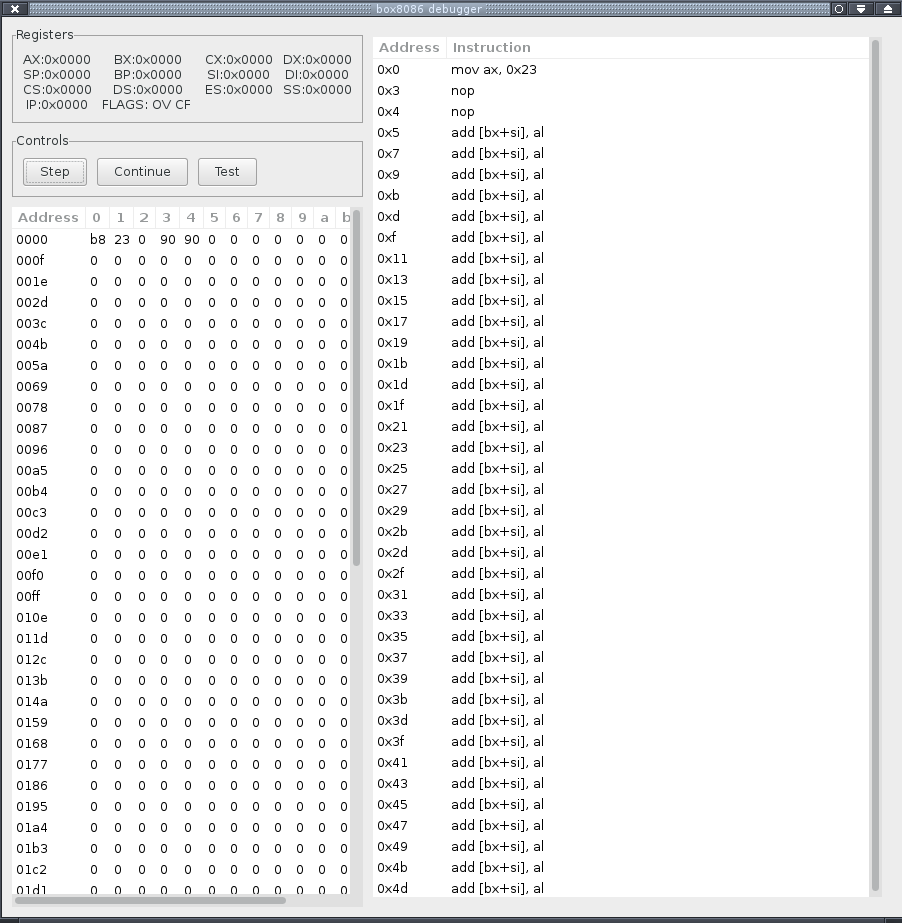
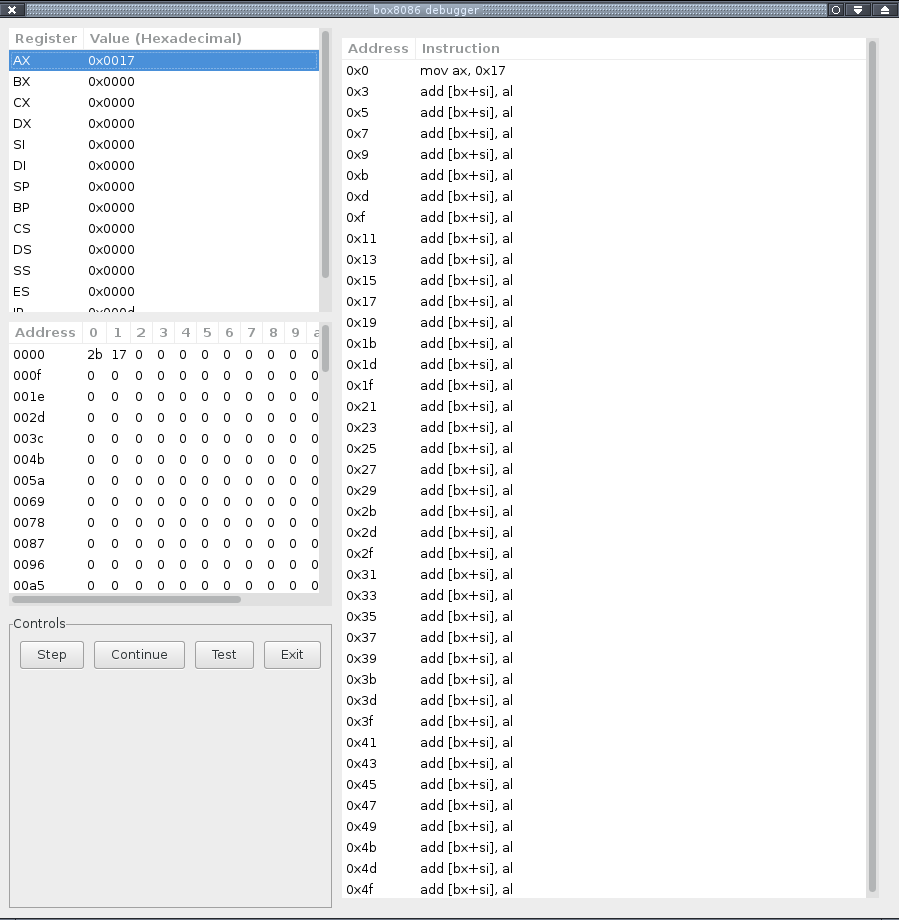
GUI Improvements

Changed region(s): [[0.0, 0.0, 1.0, 1.0], [0.1246, 0.8217, 0.1869, 0.8826], [0.2803, 0.8217, 0.3115, 0.8826]]

diff --git a/src/GUI/GUI.cpp b/src/GUI/GUI.cpp
@@ -6,6 +6,15 @@
 
 #include <gtkmm.h>
 
+/* Ugly code, but i need GUI for do some tests :P */
+
+std::vector<std::string> __regs = {
+    "AX", "BX", "CX", "DX",
+    "SI", "DI", "SP", "BP",
+    "CS", "DS", "SS", "ES",
+    "IP", "FLAGS",
+};
+
 void loadFile(const std::string& fileName, ubyte* mem) {
    
     unsigned int fileSize = 0;
@@ -20,7 +29,7 @@ void loadFile(const std::string& fileName, ubyte* mem) {
     
     fread(mem, fileSize, 1, f);
 }
-
+ 
 class InstructionColumn : public Gtk::TreeModel::ColumnRecord {
     public:
         InstructionColumn() {
@@ -55,8 +64,6 @@ public:
         set_border_width(10);
 
         init_view();
-
-        //test();
     }
 
     void append_row(unsigned int position, std::string str) {
@@ -143,110 +150,136 @@ public:
 };
 
 
-class RegistersFrame : public Gtk::Frame {
+class RegisterColumn : public Gtk::TreeModel::ColumnRecord {
+    public:
+        RegisterColumn() {
+            add(register_name);
+            add(str_value);
+        }
 
+    Gtk::TreeModelColumn<std::string> register_name;
+    Gtk::TreeModelColumn<std::string> str_value;
+
+};
+
+class RegistersViewFrame : public Gtk::ScrolledWindow {
+    
 public:
-    RegistersFrame() 
-        : Gtk::Frame("Registers") {
-        
-
-
-        init_labels();
-        init_grid();
-
-        add(grid);
+    RegistersViewFrame() {
+        add(sw);
+        sw.add(tv);
+        init_view();
 
     }
+    
+    void init_view() {
+        ref_tree_model = Gtk::ListStore::create(columns);
+        tv.set_model(ref_tree_model);
 
-    void init_labels() {
-        ax.set_label("AX:0x0000");
-        bx.set_label("BX:0x0000");
-        cx.set_label("CX:0x0000");
-        dx.set_label("DX:0x0000");
+        tv.append_column("Register", columns.register_name);
+        tv.append_column("Value (Hexadecimal)", columns.str_value);
 
-        sp.set_label("SP:0x0000");
-        bp.set_label("BP:0x0000");
-        si.set_label("SI:0x0000");
-        di.set_label("DI:0x0000");
-
-        cs.set_label("CS:0x0000");
-        ds.set_label("DS:0x0000");
-        es.set_label("ES:0x0000");
-        ss.set_label("SS:0x0000");
-
-        ip.set_label("IP:0x0000");
-        flags.set_label("FLAGS: OV CF ");
-
-    }
-
-    void init_grid() {
-
-        grid.set_border_width(10);
-        grid.set_column_spacing(10);
-
-        grid.add(ax);
-        grid.add(bx);
-        grid.add(cx);
-        grid.add(dx);
-
-        grid.attach_next_to(sp, ax, Gtk::POS_BOTTOM, 1, 1);
-        grid.attach_next_to(bp, bx, Gtk::POS_BOTTOM, 1, 1);
-        grid.attach_next_to(si, cx, Gtk::POS_BOTTOM, 1, 1);
-        grid.attach_next_to(di, dx, Gtk::POS_BOTTOM, 1, 1);
-
-        grid.attach_next_to(cs, sp, Gtk::POS_BOTTOM, 1, 1);
-        grid.attach_next_to(ds, bp, Gtk::POS_BOTTOM, 1, 1);
-        grid.attach_next_to(es, si, Gtk::POS_BOTTOM, 1, 1);
-        grid.attach_next_to(ss, di, Gtk::POS_BOTTOM, 1, 1);
-
-        grid.attach_next_to(ip, cs, Gtk::POS_BOTTOM, 1, 1);
-        grid.attach_next_to(flags, ds, Gtk::POS_BOTTOM, 1, 1);
-
+        for(unsigned int i=0;i<__regs.size();++i) {
+            Gtk::TreeModel::Row row = *(ref_tree_model->append());
+            row[columns.register_name] = __regs[i];
+            if(i != __regs.size()-1)
+                row[columns.str_value] = "0x0000";
+        }
     }
 
     void set_registers(const Registers& regs) {
-
+        
         char buffer[32] = {0};
 
-        snprintf(buffer, 32, "AX:0x%04x", regs.ax);
-        ax.set_label(buffer);
-        snprintf(buffer, 32, "BX:0x%04x", regs.bx);
-        bx.set_label(buffer);
-        snprintf(buffer, 32, "CX:0x%04x", regs.cx);
-        cx.set_label(buffer);
-        snprintf(buffer, 32, "DX:0x%04x", regs.dx);
-        dx.set_label(buffer);
+        typedef Gtk::TreeModel::Children t_ch;
+        t_ch ch = ref_tree_model->children();
 
-        snprintf(buffer, 32, "SP:0x%04x", regs.sp);
-        sp.set_label(buffer);
-        snprintf(buffer, 32, "BP:0x%04x", regs.bp);
-        bp.set_label(buffer);
-        snprintf(buffer, 32, "SI:0x%04x", regs.si);
-        si.set_label(buffer);
-        snprintf(buffer, 32, "DI:0x%04x", regs.di);
-        di.set_label(buffer);
-       
-        snprintf(buffer, 32, "CS:0x%04x", regs.cs);
-        cs.set_label(buffer);
-        snprintf(buffer, 32, "DS:0x%04x", regs.ds);
-        ds.set_label(buffer);
-        snprintf(buffer, 32, "ES:0x%04x", regs.es);
-        es.set_label(buffer);
-        snprintf(buffer, 32, "SS:0x%04x", regs.ss);
-        ss.set_label(buffer);
+        t_ch::iterator it = ch.begin();
 
-        snprintf(buffer, 32, "IP:0x%04x", regs.ip);
-        ip.set_label(buffer);
+        Gtk::TreeModel::Row row = *it;
+
+        snprintf(buffer, 32, "0x%04x", regs.ax);
+        row[columns.str_value] = buffer;
+
+        it++;
+        row = *it;
+        snprintf(buffer, 32, "0x%04x", regs.bx);
+        row[columns.str_value] = buffer;
+      
+        it++;
+        row = *it;
+        snprintf(buffer, 32, "0x%04x", regs.cx);
+        row[columns.str_value] = buffer;
+
+        it++;
+        row = *it;
+        snprintf(buffer, 32, "0x%04x", regs.dx);
+        row[columns.str_value] = buffer;
+
+        it++;
+        row = *it;
+        snprintf(buffer, 32, "0x%04x", regs.si);
+        row[columns.str_value] = buffer;
+      
+        it++;
+        row = *it;
+        snprintf(buffer, 32, "0x%04x", regs.di);
+        row[columns.str_value] = buffer;
+
+        it++;
+        row = *it;
+        snprintf(buffer, 32, "0x%04x", regs.sp);
+        row[columns.str_value] = buffer;
+      
+        it++;
+        row = *it;
+        snprintf(buffer, 32, "0x%04x", regs.bp);
+        row[columns.str_value] = buffer;
         
+        it++;
+        row = *it;
+        snprintf(buffer, 32, "0x%04x", regs.cs);
+        row[columns.str_value] = buffer;
+      
+        it++;
+        row = *it;
+        snprintf(buffer, 32, "0x%04x", regs.ds);
+        row[columns.str_value] = buffer;
+
+        it++;
+        row = *it;
+        snprintf(buffer, 32, "0x%04x", regs.ss);
+        row[columns.str_value] = buffer;
+      
+        it++;
+        row = *it;
+        snprintf(buffer, 32, "0x%04x", regs.es);
+        row[columns.str_value] = buffer;
+
+        it++;
+        row = *it;
+        snprintf(buffer, 32, "0x%04x", regs.ip);
+        row[columns.str_value] = buffer;
+        
+        it++;
+        row = *it; 
+        std::string flags_buf;
+        if(regs.flags[CF]) flags_buf += "CF ";
+        if(regs.flags[PF]) flags_buf += "PF ";
+        if(regs.flags[AF]) flags_buf += "AF ";
+        if(regs.flags[ZF]) flags_buf += "ZF ";
+        if(regs.flags[SF]) flags_buf += "SF ";
+        if(regs.flags[TF]) flags_buf += "TF ";
+        if(regs.flags[IF]) flags_buf += "IF ";
+        if(regs.flags[DF]) flags_buf += "DF ";
+        if(regs.flags[OF]) flags_buf += "OF ";
+        row[columns.str_value] = flags_buf;
     }
 
-protected:
-    Gtk::Grid grid;
-    Gtk::Label ax, bx, cx, dx;
-    Gtk::Label sp, bp, si, di;
-    Gtk::Label cs, ds, es, ss;
-    Gtk::Label ip, flags;
-
+    Gtk::ScrolledWindow sw;
+    Gtk::TreeView tv;
+    RegisterColumn columns;
+    Glib::RefPtr<Gtk::ListStore> ref_tree_model;
 };
 
 class ControlButtonsFrame : public Gtk::Frame {
@@ -256,6 +289,7 @@ public:
         : Gtk::Frame("Controls"),
           step("_Step", true),
           cont("_Continue", true),
+          exit("_Exit", true),
           test("_Test", true)
     {
 
@@ -277,12 +311,15 @@ public:
         grid.add(step);
         grid.add(cont);
         grid.add(test);
+        grid.add(exit);
 
     }
 
     Gtk::Grid grid;
+
     Gtk::Button step, cont;
-    
+    Gtk::Button exit;
+
     Gtk::Button test;
 
 };
@@ -319,9 +356,9 @@ private:
         panel_left.set_orientation(Gtk::Orientation::ORIENTATION_VERTICAL);
         panel_left.set_spacing(10);
 
-        panel_left.pack_start(regs, Gtk::PACK_SHRINK);
-        panel_left.pack_start(buttons_frame, Gtk::PACK_SHRINK);
+        panel_left.pack_start(regs);
         panel_left.pack_start(mem_window);
+        panel_left.pack_start(buttons_frame);
 
         root_box.pack_start(panel_left, Gtk::PACK_SHRINK);
         root_box.pack_start(code);
@@ -338,6 +375,9 @@ private:
         buttons_frame.step.signal_clicked().connect(
                 sigc::mem_fun(*this, &Box8086_GUI::on_step_clicked));
 
+        buttons_frame.exit.signal_clicked().connect(
+                sigc::mem_fun(*this, &Box8086_GUI::on_exit_clicked));
+
     }
 
     void setup() {
@@ -352,7 +392,7 @@ private:
 
         mem_window.dump_memory(60, 0x0000, &(*mem)[0]);
 
-        regs.set_registers(cpu.getRegisters());
+       // regs.set_registers(cpu.getRegisters());
 
     }
 
@@ -372,7 +412,12 @@ protected:
 
     }
 
-    RegistersFrame regs;
+
+    void on_exit_clicked() {
+        exit(0);
+    }
+
+    RegistersViewFrame regs;
     CodeViewWindow code;
     MemoryViewWindow mem_window; 
     ControlButtonsFrame buttons_frame;
@@ -386,7 +431,7 @@ protected:
     CPU cpu;
 
 
-};
+}; 
 
 int main(int argc, char** argv) {
    
